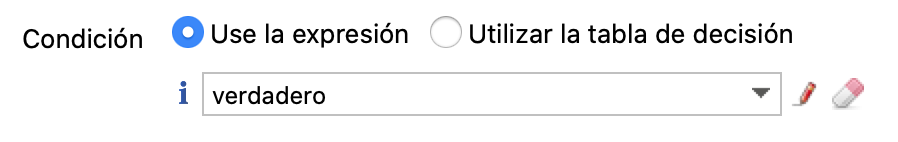
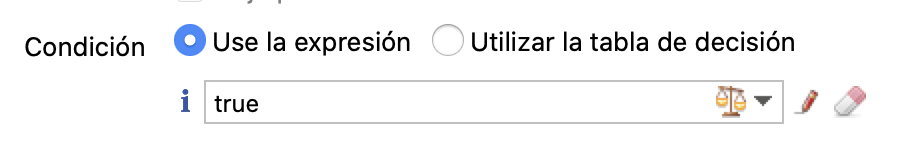
[Fix] error in slides and exercises ES

diff --git a/slides/es/index.html b/slides/es/index.html
@@ -68,7 +68,7 @@
             <li>Descarga los archivos de Bonita Camp de GitHub: <a href="https://github.com/Bonitasoft-Community/bonita-camp/releases">https://github.com/Bonitasoft-Community/bonita-camp/releases</a></li>
             <li>Instala la última versión del Studio (consulta el documento de ejercicios)</li>
             <li>Inicia Bonita Studio y haz clic en el botón Portal.</li>
-            <li>Recomendamos usar Chrome o Firefox durante el desarrollo</li>
+            <li>Recomendamos usar <img class="no-margin" src="images/chrome.png" alt="chrome"/> o <img class="no-margin" src="images/firefox.png" alt="firefox"/> durante el desarrollo</li>
           </ul>
           
           <aside class="notes">
@@ -81,13 +81,17 @@
 
         <section>
           <h2>Programa</h2>
+          <p>Día #1</p>
           <ul class="agenda">
-            <li>La solución Bonita</li>
-            <li>Componentes de Bonita</li>
+            <li>La solución Bonita y sus componentes</li>
             <li>Introducción a BPMN</li>
             <li>Gestión de datos y contratos</li>
-            <li>Formularios y páginas</li>
-            <li>Actores</li>
+            <li>Interfaz de usuario (Formularios y páginas)</li>
+          </ul>
+
+          <p>Día #2</p>
+          <ul class="agenda">
+            <li>Gestión de usuarios</li>
             <li>Conectores</li>
             <li>Aplicaciones</li>
             <li>Despliegue</li>
@@ -166,6 +170,36 @@
           </section>
 
           <section>
+            <h2>Bonita Portal</h2>
+            <p>Interfaz web para el usuario final y el administrador </p>
+            <p> Presenta la lista de tareas a realizar </p>
+            <p> Te permite implementar y configurar procesos </p>
+            <aside class="notes">
+              30<br /><br />
+              Portal uses the Bonita APIs as any client of the Engine
+            </aside>
+          </section>
+
+          <section>
+            <h2>Bonita Portal: lista de tareas</h2>
+            <img class="stretch" src="images/screenshot_portal_inbox.png" alt="Bonita Portal : liste de tâches" />
+          </section>
+
+            <section>
+              <h2>Bonita Portal : Aplicaciones</h2>
+              <p>Permite la implementación de aplicaciones empresariales compuestas de páginas creadas con el UI Designer </p>
+              <img class="stretch" src="images/screenshot_application.png" alt="Bonita application" />
+
+              <aside class="notes">
+                1.30<br /><br />
+                Vista global que usa páginas como paneles para mostrar y dar acceso a acciones <br />
+                Las páginas se crean de la misma manera que los formularios. La única diferencia es que las páginas no están asociadas directamente con una definición de proceso. Una página puede interactuar con diferentes procesos o incluso sin ningún proceso (por ejemplo, para un tablero sin acción sobre el proceso subyacente). <br />
+                Todo está definido en el UID y alojado en la plataforma Bonita <br />
+                Interfaz de usuario específica para el negocio que lo hace generalmente mejor que la lista genérica de tareas que puede parecer no tan conveniente
+              </aside>
+            </section>
+
+          <section>
             <h2>Bonita Engine</h2>
             <p> Proporciona un conjunto de servicios </p>
             <p> Responsable de la ejecución de los procesos (sin interfaz gráfica) </p>
@@ -187,43 +221,18 @@
           </section>
 
           <section>
-            <h2>Bonita Portal</h2>
-            <p>Interfaz web para el usuario final y el administrador </p>
-            <p> Presenta la lista de tareas a realizar </p>
-            <p> Te permite implementar y configurar procesos </p>
-            <img class="stretch" src="images/screenshot_portal_inbox.png" alt="Bonita Portal : liste de tâches" />
-
-            <aside class="notes">
-              30<br /><br />
-              Portal utiliza las API de Bonita como cualquier cliente del motor
-            </aside>
-          </section>
-          <section>
-            <h2>Bonita Portal : Formularios</h2>
-            <p> Muestra los formularios creados con el UI Designer </p>
-            <p> Los formularios están asociados con el proceso (instanciación) o las tareas humanas </p>
-            <p> y servido en Portal Bonita o mediante una aplicación </p>
-            <img class="stretch" src="images/screenshot_form.png" alt="Bonita form" />
-
-            <aside class="notes">
-              1.00<br /><br />
-              Definición de formulario: mostrar datos y obtener entradas como parte de la ejecución del proceso
-            </aside>
-          </section>
-          <section>
-            <h2>Bonita Portal : Aplicaciones</h2>
-            <p>Permite la implementación de aplicaciones empresariales compuestas de páginas creadas con el UI Designer </p>
-            <img class="stretch" src="images/screenshot_application.png" alt="Bonita application" />
+            <h2>Arquitectura de la plataforma Bonita</h2>
+            <img class="stretch" src="images/architectural-overview.png" alt="Architecture Bonita" />
 
             <aside class="notes">
               1.30<br /><br />
-              Vista global que usa páginas como paneles para mostrar y dar acceso a acciones <br />
-              Las páginas se crean de la misma manera que los formularios. La única diferencia es que las páginas no están asociadas directamente con una definición de proceso. Una página puede interactuar con diferentes procesos o incluso sin ningún proceso (por ejemplo, para un tablero sin acción sobre el proceso subyacente). <br />
-              Todo está definido en el UID y alojado en la plataforma Bonita <br />
-              Interfaz de usuario específica para el negocio que lo hace generalmente mejor que la lista genérica de tareas que puede parecer no tan conveniente
+              Todas las interacciones (Portal y otras) con el Motor se gestionan con las API REST de Bonita. <br/>
+              Las imágenes de paquete (Tomcat) y Docker están disponibles para simplificar la instalación del servidor <br />
+              La edición Enterprise proporciona características para manejar la implementación y el mantenimiento en la nube (AWS u otro)
             </aside>
           </section>
         </section>
+
 
         <section>
           <section>
@@ -290,9 +299,11 @@
           </section>
 
           <section>
-            <h2>Ejercicio 1</h2>
-            <p class="exercise-title">Modelado de proceso básico</p>
-            <p>Si aún no lo has hecho, descargua las instrucciones y correcciones desde GitHub: https://github.com/Bonitasoft-Community/bonita-camp/releases</p>
+            <div>
+              <img width="30%" src="images/think.png" alt="exercise"/><h2>Ejercicio 1</h2>
+            </div>
+            <h4>Modelado de proceso básico</h4>
+            <p>Si aún no lo has hecho, descargua las instrucciones y correcciones desde GitHub: <br> <a href="https://github.com/Bonitasoft-Community/bonita-camp/releases">https://github.com/Bonitasoft-Community/bonita-camp/releases</a></p>
 
             <aside class="notes">
               2.00<br /><br />
@@ -414,8 +425,10 @@
           </section>
 
           <section>
-            <h2>Ejercicio 2</h2>
-            <p class="exercise-title">Agregar datos y especificar contratos</p>
+            <div>
+              <img width="30%" src="images/think.png" alt="exercise"/><h2>Ejercicio 2</h2>
+            </div>
+            <h4>Agregar datos y especificar contratos</h4>
             
             <aside class="notes">
               6<br /><br />
@@ -431,7 +444,7 @@
 
         <section>
           <section>
-            <h2>Formularios</h2>
+            <h2>Formulario</h2>
             <p> Creado en el UI Designer basado en contenedores y widgets </p>
             <p> Basado en AngularJS y Bootstrap </p>
             <p> Asociado con tareas o procesos </p>
@@ -460,8 +473,8 @@
           </section>
           
           <section>
-            <h2> Páginas </h2>
-            <p> Construido de la misma manera que los formularios </p>
+            <h2> Página </h2>
+            <p> Construida de la misma manera que los formularios </p>
             <p> Diferencia principal en el contexto de ejecución: </p>
                 <ul>
                     <li> Los formularios tienen información sobre la definición del proceso o sobre la instancia del proceso y la tarea </li>
@@ -510,8 +523,10 @@
           </section>
 
           <section>
-            <h2>Ejercicio 3</h2>
-            <p class="exercise-title">Creación de formulario</p>
+            <div>
+              <img width="30%" src="images/think.png" alt="exercise"/><h2>Ejercicio 3</h2>
+            </div>
+            <h4>Creación de formulario</h4>
             
             <aside class="notes">
               Build a form from scratch<br/>
@@ -520,7 +535,45 @@
             </aside>
           </section>
         </section>
-        
+
+        <!-- Fin jour 1 -->
+
+        <section>
+          <section>
+            <div>
+              <img src="images/bonita_camp_logo.png" alt="Bonita Camp logo" />
+            </div>
+            <div>
+              <h4>Día #2</h4>
+              <div>Delphine Coille</div>
+            </div>
+          </section>
+
+          <section>
+            <h2>Recordatorio del programa</h2>
+            <p>Día #1</p>
+            <ul class="agenda">
+              <li>La solución Bonita y sus componentes</li>
+              <li>Introducción a BPMN</li>
+              <li>Gestión de datos y contratos</li>
+              <li>Interfaz de usuario (Formularios y páginas)</li>
+            </ul>
+
+            <p>Día #2</p>
+            <ul class="agenda">
+              <li>Gestión de usuarios</li>
+              <li>Conectores</li>
+              <li>Aplicaciones</li>
+              <li>Despliegue</li>
+            </ul>
+
+            <aside class="notes">
+              1<br /><br />
+              3:30h de duración
+            </aside>
+          </section>
+        </section>
+
         <section>
           <section>
             <h2> ¿Quién puede realizar una tarea? </h2>
@@ -617,8 +670,10 @@
           </section>
 
           <section>
-            <h2>Ejerciio 4</h2>
-            <p class="exercise-title">Gestión de actores</p>
+            <div>
+              <img width="30%" src="images/think.png" alt="exercise"/><h2>Ejercicio 4</h2>
+            </div>
+            <h4>Gestión de actores</h4>
             
             <aside class="notes">
               Configure actors in the process<br />
@@ -650,8 +705,10 @@
           </section>
 
           <section>
-            <h2>Ejercicio 5</h2>
-            <p class="exercise-title">Notificación a través de un connector</p>
+            <div>
+              <img width="30%" src="images/think.png" alt="exercise"/><h2>Ejercicio 5</h2>
+            </div>
+            <h4>Notificación a través de un connector</h4>
             
             <aside class="notes">
               20 - WAIT / ANSWER QUESTIONS<br />
@@ -687,8 +744,10 @@
           </section>
 
           <section>
-            <h2>Ejercicio 6</h2>
-            <p class="exercise-title">Creer una aplicación de gestión de solicitudes de vacaciones</p>
+            <div>
+              <img width="30%" src="images/think.png" alt="exercise"/><h2>Exercice 6</h2>
+            </div>
+            <h4>Creer una aplicación de gestión de solicitudes de vacaciones</h4>
             
             <aside class="notes">
               20 - WAIT / ANSWER QUESTIONS<br />
@@ -753,11 +812,16 @@
         </section>
 
         <section>
-          <h2> Gracias por su atención </h2>
-          <p> ¿Alguna pregunta? <br />
-            No dudes en preguntarles primero en el servidor dedicado de Discord <a href="https://discord.gg/dtZUc6s"> # bonita-camp-español </a>, <br />
+          <h2> Gracias por tu atención </h2>
+          <div>
+            <h3> ¿Alguna pregunta? </h3>
+            <p>No dudes en preguntarles primero en el servidor dedicado de Discord <a href="https://discord.gg/dtZUc6s"> # bonita-camp-español </a>, <br />
             y luego haz tus preguntas sobre nuestra comunidad Bonitasoft. </p>
-          <p> Recursos adicionales: </p>
+          </div>
+        </section>
+
+        <section>
+          <h2> Recursos adicionales: </h2>
           <ul>
             <li>Documentación - <a href="https://documentation.bonitasoft.com/" target="_blank">documentation.bonitasoft.com</a></li>
             <li>Sitio web Bonitasoft - <a href="https://fr.bonitasoft.com/" target="_blank">fr.bonitasoft.com</a></li>

diff --git a/slides/en/index.html b/slides/en/index.html
@@ -684,7 +684,7 @@
             <div>
               <img width="30%" src="images/think.png" alt="exercise"/><h2>Exercise 5</h2>
             </div>
-            <h4>">Using a connector to send an email</h4>
+            <h4>Using a connector to send an email</h4>
             <aside class="notes">
               20 - WAIT / ANSWER QUESTIONS<br />
             </aside>
@@ -757,7 +757,7 @@
          </section>
 
          <section>
-          <h2>Application Deployment</h2>
+          <h2h2Application Deployment</h2>
           <p>Main steps for application deployment:</p>
           <table>
           <tr>
@@ -785,17 +785,24 @@
         </section>
 
         <section>
+          <section>
           <h2>Thank you for your attention</h2>
-          <p>Any questions?<br />
-            Feel free to post them first on our dedicated Discord channel <a href="https://www.discord.com/gjQanU3">#bonita-camp-english</a>, <br />
+            <div>
+              <h3>Any questions?</h3>
+            <p>Feel free to post them first on our dedicated Discord channel <a href="https://www.discord.com/gjQanU3">#bonita-camp-english</a>, <br />
             and then please post them on Bonitasoft community website.</p>
-          <p>Extra Resources:</p>
+            </div>
+          </section>
+
+          <section>
+          <h2>Extra Resources:</h2>
           <ul>
             <li>Documentation - <a href="https://documentation.bonitasoft.com/" target="_blank">documentation.bonitasoft.com</a></li>
             <li>Corporate Website - <a href="https://www.bonitasoft.com/" target="_blank">bonitasoft.com</a></li>
             <li>Community Website- <a href="https://community.bonitasoft.com/" target="_blank">community.bonitasoft.com</a></li>
             <li>GitHub - <a href="https://github.com/bonitasoft-community" target="_blank">github.com/bonitasoft-community</a></li>
           </ul>
+          </section>
         </section>
 
       </div>

diff --git a/docs/es/01-bpmn-design.md b/docs/es/01-bpmn-design.md
@@ -20,7 +20,7 @@ El grupo de procesos debe contener los siguientes elementos BPMN:
 * Una tarea humana *Validar solicitud*
 * Una puerta exclusiva *¿Solicitud aprobada?*
 * Una tarea automática *Notificar aprobación*
-* Una condición siempre verdadera (`verdadero`) en la transición que conecta la puerta exclusiva a la tarea de notificación de aprobación
+* Una condición siempre verdadera (`true`) en la transición que conecta la puerta exclusiva a la tarea de notificación de aprobación
 * Una tarea automática *Notificar rechazo*
 * Una transición predeterminada que conecta la puerta exclusiva a la tarea de notificación de rechazo
 * Un evento final *Fin - Solicitud aceptada*
@@ -60,7 +60,7 @@ El grupo de procesos debe contener los siguientes elementos BPMN:
     - La transición que conduce al paso *Notificar aprobación* se llamará *Sí* y la otra *No*
 1. Configura la condición en la transición *Sí* para que el flujo siga esta rama:
     - Selecciona la transición
-    - Ingresa el valor `verdadero` en el campo **Condición** (pestaña **General / General**). Si no ves el campo **Condición**, probablemente sea porque agregaste una puerta lógica paralela en lugar de una exclusiva.
+    - Ingresa el valor `true` en el campo **Condición** (pestaña **General / General**). Si no ves el campo **Condición**, probablemente sea porque agregaste una puerta lógica paralela en lugar de una exclusiva.
    ![definición de condición en una transición](images/ex01/ex1_06.png)
 1. Configura la transición *No* como el flujo por defecto:
     - Selecciona la transición *No*

diff --git a/docs/es/03-forms.md b/docs/es/03-forms.md
@@ -110,7 +110,7 @@ Crea los siguientes formularios:
    --------- | ------
    Nombre | *solicitante*
    Tipo | **External API**
-   URL del API | `../API/identity/user/{% raw %}{{solicitud.solicitanteID}}{% endraw %}`
+   URL del API | `../API/identity/user/{{solicitud.solicitanteID}}`
 
 1. Cambie el título del formulario
     - Seleccione el widget **Título** (Title) ubicado en la parte superior del formulario
@@ -127,7 +127,7 @@ Crea los siguientes formularios:
 
    Propiedad | Valor
    --------- | ------
-   Texto | `<b>Solicitante :</b> {% raw %}{{solicitante.firstname}} {{solicitante.lastname}}{% endraw %}`
+   Texto | `<b>Solicitante :</b> {{solicitante.firstname}} {{solicitante.lastname}}`
 
 1. Agregue un widget para rechazar la solicitud:
     - Arrastre un widget **Botón** y agréguelo al contenedor del formulario (área delimitada por una línea gruesa de puntos)
